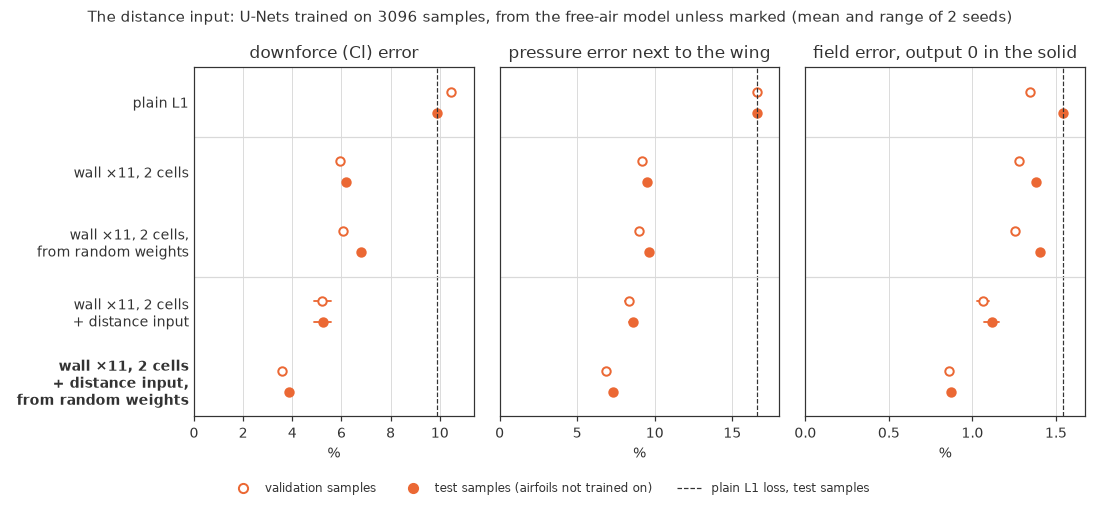
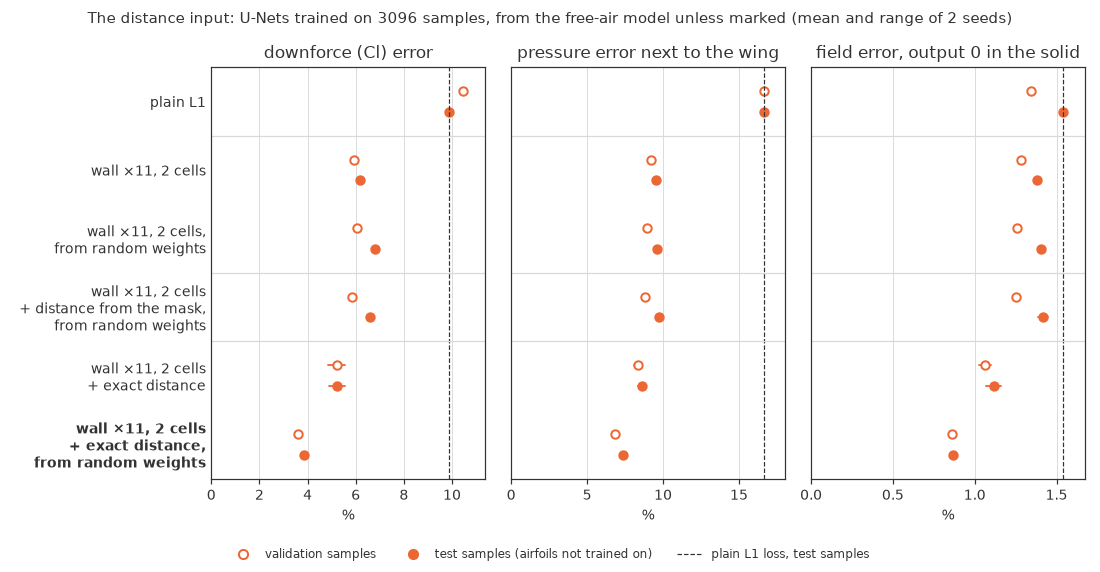
Step 13: a distance from the mask does not help, so the gain comes from the exact shape

diff --git a/docs/13-distance-input.md b/docs/13-distance-input.md
@@ -9,8 +9,11 @@ nearest surface. Trained from random weights on the same 3,096 samples, its
 downforce error on the 30 test airfoils falls from 6.8% to 3.9%, and its
 field error from 1.41% to 0.87%. On the Tyrrell 026, the downforce is now
 within 1.1% of the CFD at every ride height (step 12: 10–19% too low), but
-the suction peak is still too weak. Starting from the free-air model gains
-less (6.2% → 5.2%), so the final model will start from random weights.
+the suction peak is still too weak. The same kind of distance computed from
+the mask does not help (6.6%), so the gain comes from the shape finer than
+the grid, and it shows in the whole flow, not only next to the wing.
+Starting from the free-air model gains less (6.2% → 5.2%), so the final
+model will start from random weights.
 
 *Words used here: [glossary](glossary.md). References: [list](references.md).*
 
@@ -55,7 +58,7 @@ GPUs (see [How to run it](howto.md)).
 
 ## Test samples
 
-![Downforce error, pressure error next to the wing and field error, with and without the distance input](../results/ground_distance_input.png)
+![Downforce error, pressure error next to the wing and field error: the mask alone, with the distance computed from the mask, and with the exact distance](../results/ground_distance_input.png)
 
 Test samples, mean of the 2 seeds, all with the wall weighting
 (`loss_study.py`):
@@ -64,10 +67,13 @@ Test samples, mean of the 2 seeds, all with the wall weighting
 |---|---|---|---|---|---|
 | mask (step 10) | free-air model | 1.38% | 9.5% | 6.2% | 0.94 |
 | mask (step 10) | random weights | 1.41% | 9.6% | 6.8% | 0.90 |
-| mask + distance | free-air model | 1.12% | 8.6% | 5.2% | 0.95 |
-| mask + distance | random weights | 0.87% | 7.3% | 3.9% | 0.95 |
+| mask + distance from the mask | random weights | 1.42% | 9.7% | 6.6% | 0.90 |
+| mask + exact distance | free-air model | 1.12% | 8.6% | 5.2% | 0.95 |
+| mask + exact distance | random weights | 0.87% | 7.3% | 3.9% | 0.95 |
 
-With the plain loss (step 10): 1.54%, 16.6%, 9.9% and 0.84.
+With the plain loss (step 10): 1.54%, 16.6%, 9.9% and 0.84. The distance
+from the mask is explained [below](#shape-or-form); elsewhere on this page,
+"the distance" is the exact one.
 
 - **From random weights, the errors fall by a quarter to a half.** The
   downforce error drops from 6.8% to 3.9% (for the median sample, from 4.6%
@@ -89,6 +95,64 @@ With the plain loss (step 10): 1.54%, 16.6%, 9.9% and 0.84.
 - **Still the hardest samples.** The largest errors are still on the strut
   e864, whose Cl is close to 0, and on bw3 at h/c 0.073, which got worse
   (Cl off by 0.48, against 0.26).
+
+## Shape or form?
+
+The exact distance differs from the mask in two ways. It is another kind of
+picture: smooth, where the mask is only 0 or 1. And it holds the shape
+between the grid points, which the mask cannot show. To tell the two apart,
+we trained the U-Net once more with a distance computed from the mask itself
+(`train_unet.py --distance mask`): the same kind of picture, but with no more
+of the shape than the mask shows. It puts the surface halfway between each
+solid point and the air points next to it. On the test samples it differs
+from the exact distance by 0.36 cells on average, and its sign agrees with
+the mask everywhere. Same samples, settings and seeds, from random weights;
+the 2 runs took 22 minutes on Kaggle. All the comparisons below are between
+models trained from random weights.
+
+- **The shape, not the form.** With the distance from the mask, the
+  downforce error is 6.6% (seeds: 6.66% and 6.51%), against 6.8% with the
+  mask alone, and the field error is the same (1.42% and 1.41%). Cl comes
+  closer to the simulation on 52 of the 102 test samples (p = 0.69) and on
+  177 of the 340 validation samples (p = 0.22): no difference we can
+  measure. The exact distance is closer than the distance from the mask on
+  80 of the 102 test samples (p = 5.4 × 10⁻⁹) and on 249 of the 340
+  validation samples (p = 8.9 × 10⁻²⁴). So what helps is the shape finer
+  than the grid.
+- **Except very close to the ground.** Below h/c 0.08 (79 test and
+  validation samples), the distance from the mask does help: the downforce
+  error falls from 6.6% to 5.7% (closer on 50 of the 79, p = 0.003), and
+  the exact distance adds less there (4.8%) than at any other ride height.
+  The gap under the wing is only 3–5 cells high there. Perhaps the distance
+  helps because it gives the height of the gap in every cell of it, while
+  from the mask the U-Net has to find it from the solid cells above and
+  below.
+- **Not mainly the trailing edge.** The grid points rarely fall inside the
+  thin trailing edge, so in the mask the wing ends early: 2 cells (0.03
+  chords) before its true end on average, and up to 11 cells (0.17 chords)
+  for the thin mh49. For the mh49, only the exact distance helps: on its 6
+  test samples, Cl is off by 0.17 on average with the distance from the
+  mask (0.15 with the mask alone), and by 0.03 with the exact one. But over
+  all 442 test and validation samples, the gain from the exact distance
+  does not grow with how much of the trailing edge the mask misses
+  (Spearman ρ = 0.04), nor with how much the grid rounds the ride height
+  (ρ = 0.01).
+- **Better in the whole flow.** Of the drop in the pressure error from the
+  distance from the mask to the exact distance (test samples, cells in the
+  air), 80% lies more than 0.1 chords from the wing (92% of the cells),
+  where the error falls by 44–47%, against 28–35% closer to the wing. The
+  cells within 0.1 chords of the leading and the trailing edge give 2% and
+  1% of it. A lifting wing sets the pressure far around it through its
+  circulation, so this suggests that the exact shape mainly helps the U-Net
+  to get the circulation right: perhaps through the camber and the angle of
+  the surface, which the mask shows only to the nearest cell.
+- **The two wings agree.** In the sweeps of steps 11 and 12, the models
+  with the distance from the mask are about as far off as those with the
+  mask alone. On the Tyrrell 026 they give 8.5% too little downforce on
+  average (mask alone: 6.3%, exact distance: 0.5% off). On the NACA 4412
+  they are 1.2% off on average (mask alone: 1.3%, exact distance: 2.8%).
+  Tables: [Tyrrell 026](../results/sweep_tyrrell026_distance_mask.csv),
+  [NACA 4412](../results/sweep_naca4412_distance_mask.csv).
 
 ## The two wings again
 

diff --git a/docs/howto.md b/docs/howto.md
@@ -203,12 +203,17 @@ smooth = glob.glob("/kaggle/input/**/airfoil_database_smooth", recursive=True)[0
 test_smooth = glob.glob("/kaggle/input/**/airfoil_database_test_smooth", recursive=True)[0]
 !python learning_curve.py --data {data}/train --test {data}/test --pretrained {model} --gpus 2 --fractions 1 --wall-weight 10 --distance --airfoil-dirs {smooth} {test_smooth} --out /kaggle/working/distance
 ```
-Put the folder `distance` from its output into `ground_effect/data/unet/`.
-Then the table and the figure, which compare its runs with those of
-`learning_curve_wall` (both starts):
+The same with the distance computed from the mask instead (the 2 runs from
+random weights, about 25 minutes; no airfoil files needed):
+```python
+!python learning_curve.py --data {data}/train --test {data}/test --gpus 2 --fractions 1 --starts scratch --wall-weight 10 --distance mask --out /kaggle/working/distance_mask
+```
+Put the folders `distance` and `distance_mask` from the outputs into
+`ground_effect/data/unet/`. Then the table and the figure, which compare
+their runs with those of `learning_curve_wall` (both starts):
 ```powershell
 cd ground_effect
-..\.venv\Scripts\python.exe loss_study.py --data data\dataset\train --test data\dataset\test --plain data\unet\plain_all --loss data\unet\learning_curve_wall data\unet\distance --starts pretrained scratch --csv data\unet\distance\loss_study.csv --title "The distance input" --plot ..\results\ground_distance_input.png
+..\.venv\Scripts\python.exe loss_study.py --data data\dataset\train --test data\dataset\test --plain data\unet\plain_all --loss data\unet\learning_curve_wall data\unet\distance data\unet\distance_mask --starts pretrained scratch --csv data\unet\distance\loss_study.csv --title "The distance input" --plot ..\results\ground_distance_input.png
 ```
 
 ## Ride-height sweeps of new wings
@@ -241,6 +246,12 @@ Tyrrell 026, the distance is built from the same wing file:
 ```powershell
 ..\.venv\Scripts\python.exe sweep_report.py --model data\unet\distance\f1_scratch_s0\model.pt data\unet\distance\f1_scratch_s1\model.pt --label "U-Net with the distance input, from random weights" --plot ..\results\sweep_naca4412_distance.png --csv ..\results\sweep_naca4412_distance.csv
 ..\.venv\Scripts\python.exe sweep_report.py --sweep data\sweep_tyrrell026 --model data\unet\distance\f1_scratch_s0\model.pt data\unet\distance\f1_scratch_s1\model.pt --label "U-Net with the distance input, from random weights" --plot ..\results\sweep_tyrrell026_distance.png --csv ..\results\sweep_tyrrell026_distance.csv
+```
+And the tables only, with the two models trained with the distance from the
+mask:
+```powershell
+..\.venv\Scripts\python.exe sweep_report.py --model data\unet\distance_mask\f1_scratch_s0\model.pt data\unet\distance_mask\f1_scratch_s1\model.pt --csv ..\results\sweep_naca4412_distance_mask.csv
+..\.venv\Scripts\python.exe sweep_report.py --sweep data\sweep_tyrrell026 --model data\unet\distance_mask\f1_scratch_s0\model.pt data\unet\distance_mask\f1_scratch_s1\model.pt --csv ..\results\sweep_tyrrell026_distance_mask.csv
 ```
 
 ## Notes

diff --git a/docs/glossary.md b/docs/glossary.md
@@ -29,7 +29,7 @@ Words used on these pages.
 | Separation | Where the air stops following the wing's surface; behind it the flow turns back and becomes unsteady |
 | Sample | One simulation, stored as six 128 × 128 images: 3 inputs (the air's speed, and where the wing and the ground are) and 3 outputs (pressure and the two velocity components) |
 | Mask | The input that shows where the wing and the ground are: each cell of the 128 × 128 grid is solid or air |
-| Signed distance | For each cell, the distance to the nearest surface (the wing or the ground), negative inside the wing and below the ground. Since step 13, an input of the U-Net: it gives the exact shape, finer than the cells |
+| Signed distance | For each cell, the distance to the nearest surface (the wing or the ground), negative inside the wing and below the ground. Since step 13, an input of the U-Net: it gives the exact shape, finer than the cells. Computed from the mask instead, it shows no more of the shape than the mask |
 | U-Net | The type of neural network used: it turns input images into output images |
 | Surrogate | A fast model that replaces the slow simulation |
 | Loss (L1) | What training makes small: how far the network's output is from the simulation. L1 is the mean absolute difference |

diff --git a/README.md b/README.md
@@ -67,7 +67,9 @@ The study in thirteen steps, each with its own page:
 13. **[The exact wing shape](docs/13-distance-input.md):** the distance to
     the wing's surface as an extra input. Trained from random weights, the
     downforce error falls to 3.9% and the field error to 0.9%. On the
-    Tyrrell 026 the downforce is within 1.1% at every ride height.
+    Tyrrell 026 the downforce is within 1.1% at every ride height. A
+    distance computed from the mask does not help: the gain comes from the
+    shape finer than the grid.
 
 **Next:** four more batches of 1000 runs (about 6,200 training samples),
 then the final U-Net with the distance input, the learning curve and both
